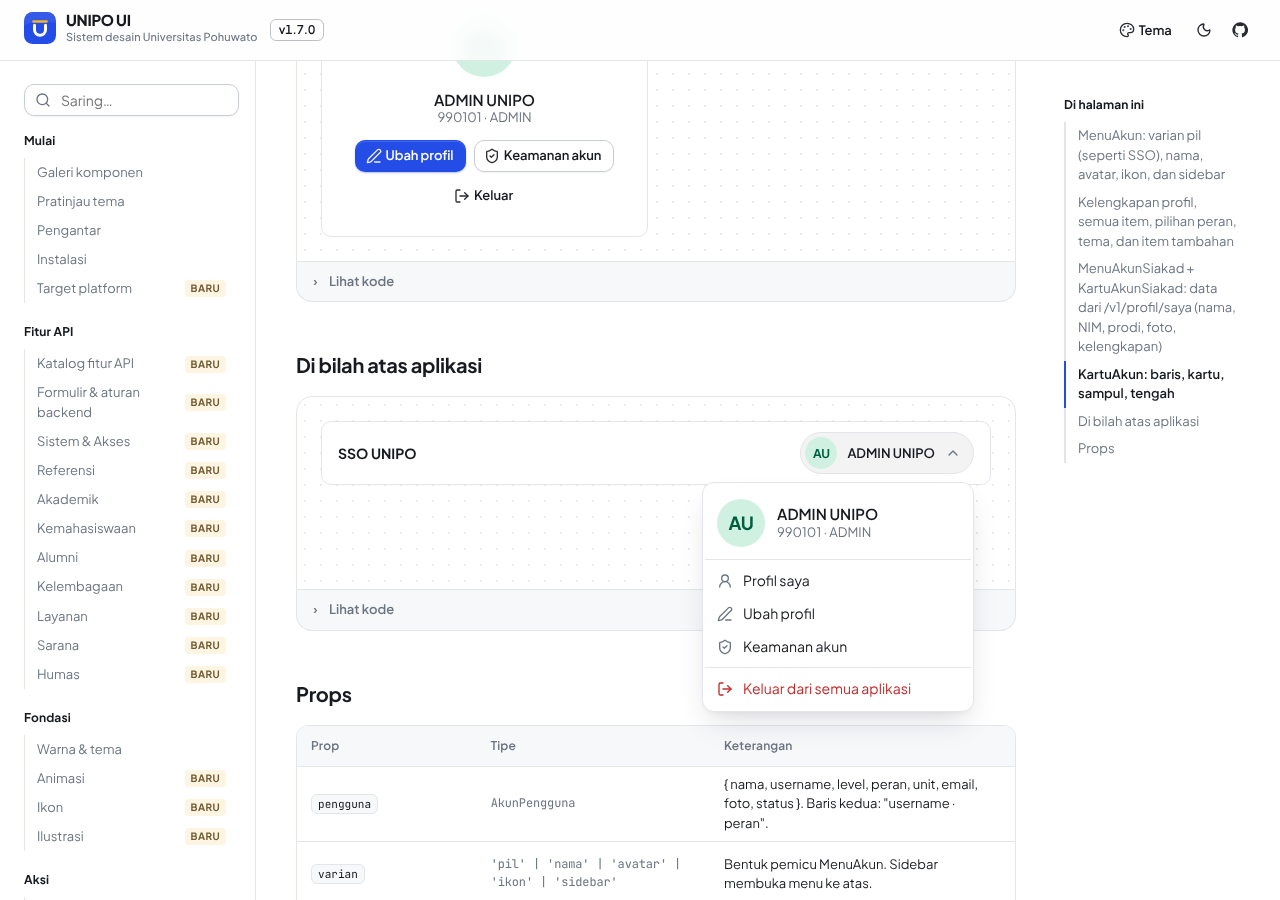
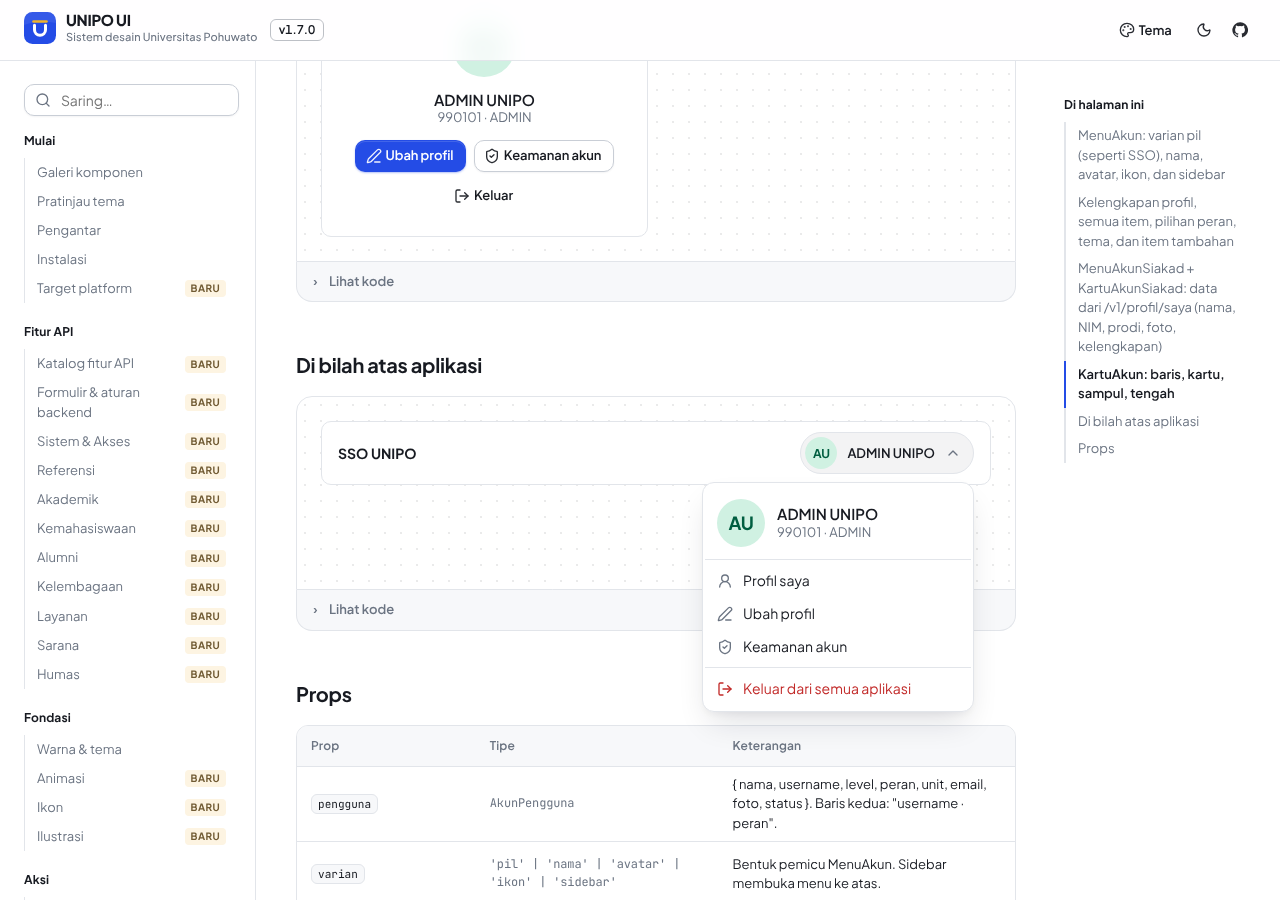
fix(akun): jalur sesuai rute profile.unipo.ac.id (/profil, /data-pribadi, /akun) + item Data pribadi

diff --git a/packages/ui/src/components/akun.tsx b/packages/ui/src/components/akun.tsx
@@ -1,7 +1,7 @@
 'use client';
 import * as React from 'react';
 import { Menu as BaseMenu } from '@base-ui/react/menu';
-import { ChevronDown, ChevronsUpDown, Check, IdCard, KeyRound, LogOut, Monitor, Moon, PenLine, ShieldCheck, Sun, UserRound, Users } from 'lucide-react';
+import { ChevronDown, ChevronsUpDown, Camera, Check, IdCard, KeyRound, LogOut, Monitor, Moon, PenLine, ShieldCheck, Sun, UserRound, Users } from 'lucide-react';
 import { cn } from '../lib/cn';
 import { Avatar, type AvatarSize } from './display';
 import type { MenuEntry } from './overlays';
@@ -28,6 +28,7 @@ export interface AkunPengguna {
 export interface TautanAkun {
   profil: string;
   ubahProfil: string;
+  dataPribadi: string;
   foto: string;
   password: string;
   keamanan: string;
@@ -42,9 +43,10 @@ export function tautanAkun(profilUrl: string = PROFIL_URL, ssoUrl: string = SSO_
   const s = ssoUrl.replace(/\/+$/, '');
   return {
     profil: `${p}/`,
-    ubahProfil: `${p}/data-pribadi`,
-    foto: `${p}/?ubah=foto`,
-    password: `${p}/keamanan`,
+    ubahProfil: `${p}/profil`,
+    dataPribadi: `${p}/data-pribadi`,
+    foto: `${p}/profil`,
+    password: `${p}/akun`,
     keamanan: `${s}/akun`,
     keluar: `${s}/logout`,
     ...ganti,
@@ -61,7 +63,7 @@ export type TemaAkun = 'terang' | 'gelap' | 'sistem';
 // ================================================================ Menu akun
 
 export type VarianMenuAkun = 'pil' | 'nama' | 'avatar' | 'sidebar' | 'ikon';
-export type ItemMenuAkun = 'profil' | 'ubah' | 'foto' | 'password' | 'keamanan';
+export type ItemMenuAkun = 'profil' | 'ubah' | 'data' | 'foto' | 'password' | 'keamanan';
 
 export interface MenuAkunProps {
   pengguna: AkunPengguna;
@@ -102,7 +104,8 @@ export interface MenuAkunProps {
 const LABEL_ITEM: Record<ItemMenuAkun, { label: string; ikon: React.ReactNode; kunci: keyof TautanAkun }> = {
   profil: { label: 'Profil saya', ikon: <UserRound />, kunci: 'profil' },
   ubah: { label: 'Ubah profil', ikon: <PenLine />, kunci: 'ubahProfil' },
-  foto: { label: 'Ganti foto', ikon: <IdCard />, kunci: 'foto' },
+  data: { label: 'Data pribadi', ikon: <IdCard />, kunci: 'dataPribadi' },
+  foto: { label: 'Ganti foto', ikon: <Camera />, kunci: 'foto' },
   password: { label: 'Ganti password', ikon: <KeyRound />, kunci: 'password' },
   keamanan: { label: 'Keamanan akun', ikon: <ShieldCheck />, kunci: 'keamanan' },
 };
@@ -215,7 +218,7 @@ export function MenuAkun({
                 {pengguna.unit && <small>{pengguna.unit}</small>}
               </div>
             </div>
-            {belumLengkap && <Kelengkapan persen={kelengkapan!} href={t.ubahProfil} tabBaru={tabBaru} />}
+            {belumLengkap && <Kelengkapan persen={kelengkapan!} href={t.dataPribadi} tabBaru={tabBaru} />}
             <BaseMenu.Separator className="u-menu-separator" />
             {item.map((k) => (
               <BaseMenu.LinkItem key={k} href={t[LABEL_ITEM[k].kunci]} className="u-menu-item" {...target}>
@@ -357,7 +360,7 @@ export function KartuAkun({ pengguna, varian = 'kartu', profilUrl, ssoUrl, tauta
         </div>
       </div>
       {p != null && (
-        <a className="u-akun-lengkap" href={t.ubahProfil} {...target} data-penuh={p >= 100 ? '' : undefined}>
+        <a className="u-akun-lengkap" href={t.dataPribadi} {...target} data-penuh={p >= 100 ? '' : undefined}>
           <span className="u-akun-lengkap-teks">
             <span>{p >= 100 ? 'Profil lengkap' : 'Kelengkapan profil'}</span>
             <b>{p}%</b>

diff --git a/apps/docs/src/demos/akun.tsx b/apps/docs/src/demos/akun.tsx
@@ -23,10 +23,10 @@ export const meta: DemoMeta = {
   props: [
     ['pengguna', 'AkunPengguna', '{ nama, username, level, peran, unit, email, foto, status }. Baris kedua: "username · peran".'],
     ['varian', "'pil' | 'nama' | 'avatar' | 'ikon' | 'sidebar'", 'Bentuk pemicu MenuAkun. Sidebar membuka menu ke atas.'],
-    ['item', "Array<'profil' | 'ubah' | 'foto' | 'password' | 'keamanan'>", 'Item bawaan. Bawaan: profil, ubah, keamanan.'],
+    ['item', "Array<'profil' | 'ubah' | 'data' | 'foto' | 'password' | 'keamanan'>", 'Item bawaan. Bawaan: profil, ubah, keamanan.'],
     ['profilUrl / ssoUrl', 'string', 'Bawaan https://profile.unipo.ac.id dan https://sso.unipo.ac.id.'],
-    ['tautan', 'Partial<TautanAkun>', 'Ganti jalur: profil, ubahProfil, foto, password, keamanan, keluar.'],
-    ['kelengkapan', 'number', 'Persen data wajib. Di bawah 100 tampil bilah "Lengkapi profil" yang menuju halaman ubah profil.'],
+    ['tautan', 'Partial<TautanAkun>', 'Ganti jalur: profil, ubahProfil, dataPribadi, foto, password, keamanan, keluar.'],
+    ['kelengkapan', 'number', 'Persen data wajib. Di bawah 100 tampil bilah "Lengkapi profil" yang menuju /data-pribadi.'],
     ['peranLain / onGantiPeran', 'Array<{ kode, label, aktif }>', 'Untuk akun dengan beberapa peran.'],
     ['tema / onTema', "'terang' | 'gelap' | 'sistem'", 'Pilihan tema di dalam menu.'],
     ['menu', 'MenuEntry[]', 'Item tambahan sebelum tombol keluar.'],
@@ -36,7 +36,7 @@ export const meta: DemoMeta = {
   ],
   notes: [
     'MenuAkunSiakad dan KartuAkunSiakad butuh scope profil:read. Pas foto diambil dari /v1/profil/saya/foto dengan token lalu ditampilkan sebagai object URL. Selama memuat atau bila scope belum ada, isi `cadangan` dari sesi SSO.',
-    'Jalur bawaan aplikasi Profil: / (profil), /data-pribadi (ubah), /keamanan (password). Bila rute profile.unipo.ac.id berbeda, ganti lewat `tautan` atau `tautanAkun()`.',
+    'Jalur bawaan sesuai rute profile.unipo.ac.id: / (profil saya), /profil (ubah profil, bio, pas foto), /data-pribadi (data pribadi), /akun (akun dan ganti password). Keamanan akun (sesi dan perangkat) ada di SSO /akun. Ganti lewat `tautan` atau `tautanAkun()` bila perlu.',
   ],
 };
 
@@ -71,7 +71,7 @@ export function Lengkap() {
     <MenuAkun
       pengguna={DOSEN}
       varian="pil"
-      item={['profil', 'ubah', 'foto', 'password', 'keamanan']}
+      item={['profil', 'ubah', 'data', 'foto', 'password', 'keamanan']}
       kelengkapan={64}
       peranLain={[
         { kode: 'dosen', label: 'Dosen', aktif: peran === 'dosen' },

diff --git a/CHANGELOG.md b/CHANGELOG.md
@@ -14,7 +14,7 @@
   - `PemakaianAi`: rekap permintaan dan token per hari, aplikasi, dan model dari `/v1/integrasi/ai/pemakaian`.
 - Halaman docs **Komponen AI** (kategori baru AI) dengan data contoh untuk semua komponen.
 - **Menu dan kartu akun** (`unipo-ui`), isi yang sama dengan menu akun di sso.unipo.ac.id dan terhubung ke profile.unipo.ac.id:
-  - `MenuAkun`: kepala berisi foto, nama, dan "username · peran"; item Profil saya, Ubah profil, Ganti foto, Ganti password (aplikasi Profil), Keamanan akun (SSO), item tambahan, lalu Keluar dari semua aplikasi. Lima bentuk pemicu: `pil` (seperti SSO), `nama`, `avatar`, `ikon`, `sidebar` (menu terbuka ke atas). Opsional: bilah **Lengkapi profil** dari persen kelengkapan, pilihan peran, dan pilihan tema.
+  - `MenuAkun`: kepala berisi foto, nama, dan "username · peran"; item Profil saya (`/`), Ubah profil (`/profil`), Data pribadi (`/data-pribadi`), Ganti foto, Ganti password (`/akun`) di aplikasi Profil, Keamanan akun (SSO), item tambahan, lalu Keluar dari semua aplikasi. Lima bentuk pemicu: `pil` (seperti SSO), `nama`, `avatar`, `ikon`, `sidebar` (menu terbuka ke atas). Opsional: bilah **Lengkapi profil** dari persen kelengkapan, pilihan peran, dan pilihan tema.
   - `KartuAkun`: varian `baris`, `kartu`, `sampul`, dan `tengah`, dengan kelengkapan profil, statistik kecil, dan tombol Ubah profil + Keamanan akun.
   - `tautanAkun()` / `TautanAkun`: jalur bawaan aplikasi Profil dan SSO yang bisa diganti per aplikasi.
   - `unipo-ui/siakad`: `useAkunSaya()`, `MenuAkunSiakad`, `KartuAkunSiakad` mengisi nama, NIM/NIDN, peran, prodi, pas foto (`/v1/profil/saya/foto`), dan kelengkapan dari `GET /v1/profil/saya`.
